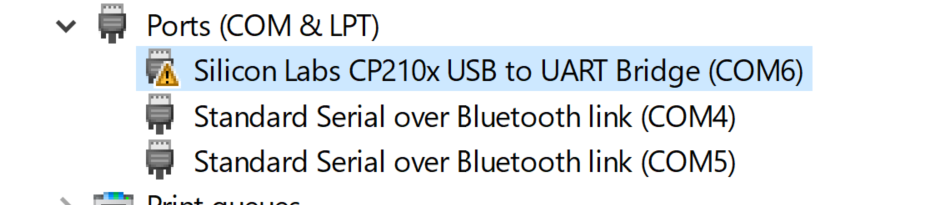
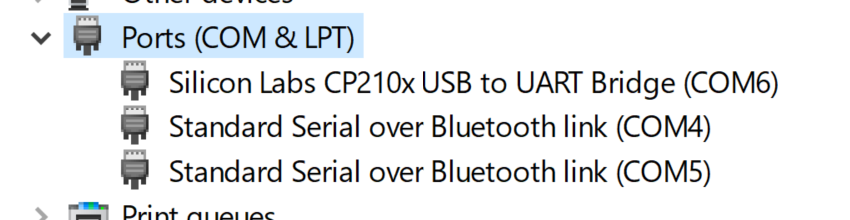
Adding images, scripts and walkthrough guides

diff --git a/2. Setting up Smart Garage.md b/2. Setting up Smart Garage.md
@@ -24,8 +24,69 @@ NOTE: if you bought an ESP8266 CH340, you will need these drivers instead.
 NodeMCU: NodeMCU has the direct link attached  
 Tasmota: Download the tasmota.bin file  
 Esp8266 drivers: Extract the zipped folder, and then run the CP210xVCPInstaller_x86.exe and follow the prompts
-2. Plug the ESP8266 into your computer
-Troubleshooting: If you are unable to see your device in device manager (right click on the start button and select 'device manager'), you may have plugged in the device with a cable that is either, faulty or doesnt have the data line attached. To work around this, simply try with another cable.
+2. Plug the ESP8266 into your computer and confirm what PORT (COM #) its connected to.
+You can do this by right clicking on the start button and select 'device manager'. You can then view what its connected too under the "Ports (COM & LPT)" tab
+Troubleshooting issues: If you are unable to see your device in device manager, you may have plugged in the device with a cable that is either, a, faulty or, b, doesnt have the data line attached. To work around this, simply try with another cable.  
 If you can see your device, however has a yellow icon on it, you will need to install the drivers again, or confirm that you have installed the correct drivers.  
 3. Open NodeMCU Flasher
-4. 
+4. Fill in the following,
+- Serial Port: COM number relating to your device in device manager
+- NodeMCU Firmware: This is the location of your tasmota.bin file
+- Baud rate: This should be stated on the back of your ESP8266, however I increase the baud rate from 9600 to 74880
+- Flash mode: Select Dual I/O (DIO)
+- Erase Flash: Select 'yes, wipes all data'
+5. Click 'Flash NodeMCU'
+6. Upon confirmation it will state 'Firmware successfully flashed' in the window.  
+7. Unplug the ESP8266 and wire it (as per the wire diagram).  
+8. Click on the wifi icon and connect to your tasmota device.  
+9. Once connected a new webpage will open and you will be met with the tasmota wifi connection page.
+10. Connect to your home wifi (or if you're fancy like the oracle, connect to your IoT Network).  
+11. The ESP8266 will disconnect and reconnect to your wifi. Connect back to your Wifi.  
+12. From the Tasmota Home page, click 'Configuration'.  
+13. click 'Configure MQTT'.  
+14. Enter the following details,  
+- Raspberry Pi Address 
+- MQTT Broker username
+- MQTT Broker password
+- MQTT Topic: A topic should correlate to the overall function of your device.
+15. Click save and wait for the reboot.  
+Note: You can confirm if this was successful or not by clicking on the 'Console' button on the homescreen, and viewing the logs.
+16. Open a webpage to your home assistant and click refresh, you should now see a 'tasmota' tile on your Home Assistant Integrations page (Home Assistant>Settings>Devices & Services)
+17. On the tasmota tile, click Configure and then submit.  
+18. State the Area this is going to be used in (Garage) and click Finish.  
+Home Assistant can now fully communicate to your ESP8266
+19. Navigate back to your ESP8266 page. Select 'Configure' then 'Configure Module'
+20. Change the module type from 'Sonoff Basic (1)' to 'Generic (18)'
+21. Click Save and wait for the reboot. Upon reboot, navigate back to the 'Configure Module' page.
+22. Under 'D1 GPIO5' Select 'Relay' and Under 'D5 GPIO14' Select 'Switch'. Click Save and wait for reboot.  
+23. From the tasmota homepage, select 'Console'.  
+24. Input the following commands,
+- SwitchTopic Garagedoor
+- switchmode1 1
+- switchretain on
+- setoption19 1
+25. Navigate back to Home Assistant and click on 'Overview' in the left blade.
+You will now see a Sensor and 2 Switches. 
+26. Navigate to your Devices & Services page (Home Assistant > Settings > Devices & Services)
+27. Under the MQTT Tile, click '1 Device'
+28. Click the '+' icon in the 'Automations' tile  
+29. Under "Only do something if..." click 'Tasmota is on'
+30. Name the Automation "Fix Garage Door Relay"
+31. Set Duration to '03 Seconds'
+32. Click 'Add Action', Select the following,
+- Action Type: Device
+- Device: Tasmota
+- Action: Turn off Tasmota
+33. Click 'Save' in the bottom right, and then click 'Overview' in the left blade.  
+34. Click the 3 dots in the top right, and click 'Edit Dashboard'  
+35. Remove all boards except "Binary Sensor"
+36. In the bottom left, click '+ Add Card'
+37. Select Button and fill in the following,
+- Entity: Tasmota
+- Name: Garage Door Remote
+- Show Name?: True
+- Show state?: True
+- Show Icon?: True
+Click Save
+
+You now have a fully functioning garage door via Home assistant using an ESP8266.
